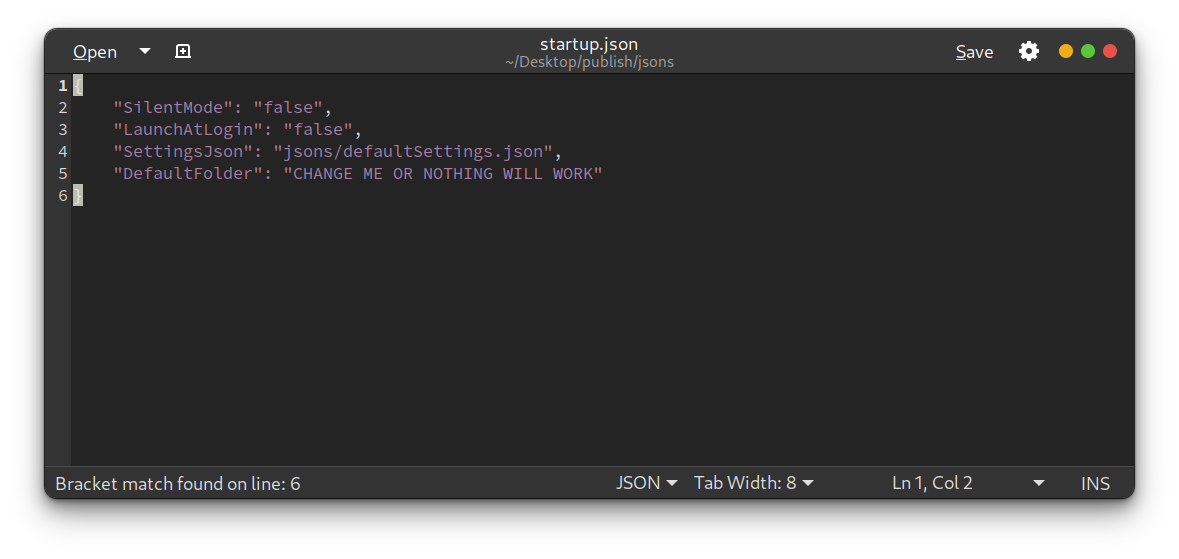
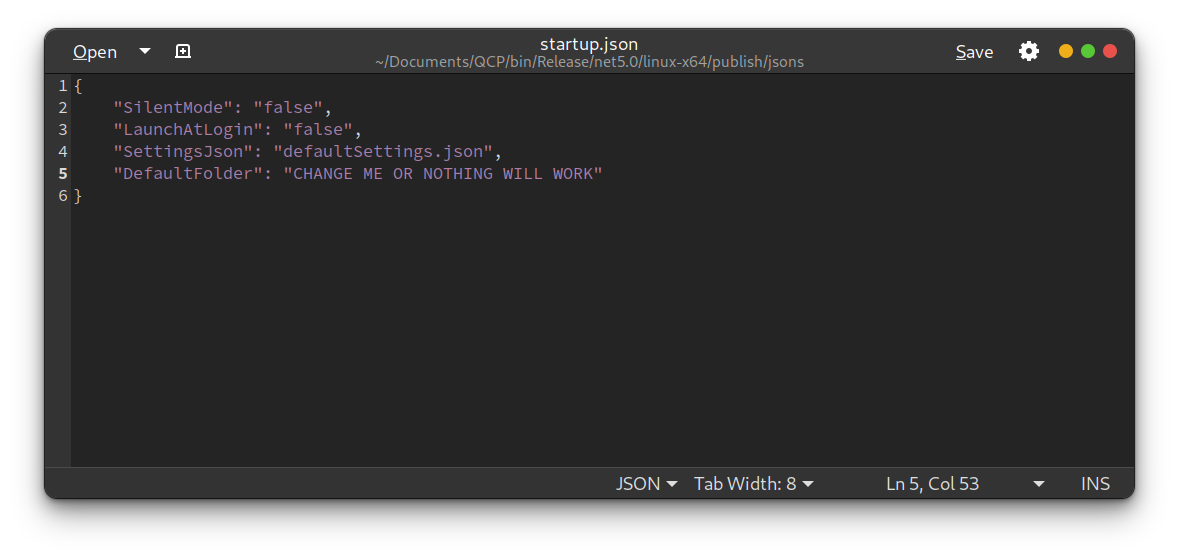
QCP can now run on any os with doubleclick

diff --git a/Startup.cs b/Startup.cs
@@ -16,7 +16,7 @@ namespace QCP
         // Sets a regkey to launch QCP at startup. Should only work on W10 for the time being (needs testing).
         public string LaunchAtLogin { get; set; }
 
-        // Settings json path read by the defaults, recomended for custom rules.
+        // Settings json file name read by the defaults, recomended for custom rules.
         public string SettingsJson { get; set; }
 
         // Default folder to be cleaned up. Also default parent folder for non custom filetype folders.
@@ -80,11 +80,11 @@ namespace QCP
         {
             if (usingDefaults == "y")
             {
-                return JsonSerializer.Deserialize<List<Correlation>>(File.ReadAllText(settings.SettingsJson));
+                return JsonSerializer.Deserialize<List<Correlation>>(File.ReadAllText(Path.Combine(AppDomain.CurrentDomain.BaseDirectory, "jsons", settings.SettingsJson)));
             }
             else
             {
-                return JsonSerializer.Deserialize<List<Correlation>>(File.ReadAllText("jsons/defaultSettings.json"));
+                return JsonSerializer.Deserialize<List<Correlation>>(File.ReadAllText(Path.Combine(AppDomain.CurrentDomain.BaseDirectory, "jsons", "defaultSettings.json")));
             }
         }
 
@@ -93,7 +93,7 @@ namespace QCP
         {
             if (usingDefaults == "y")
             {
-                return settings.DefaultFolder;
+                return Path.Combine(AppDomain.CurrentDomain.BaseDirectory, "jsons", settings.DefaultFolder);
             }
             else
             {

diff --git a/Readme.md b/Readme.md
@@ -50,7 +50,7 @@ Having to think what kind of file I have downloaded and then search for the corr
 
 2. Unzip the downloaded file in a place you will remember, especially if you are on OSX or any Linux distro.
 
-3. Run QCP! by double clicking it.
+3. Run QCP! by double clicking it. There are minor differences in running, detailed below.
 
 > Warning, if you have set nothing up and try to use defaults it will crash.
 
@@ -70,7 +70,10 @@ If you can't open it by double clicking, open a terminal, drag it in and press e
 
 Just double click it but...  
 ***Sigh***  
-On first launch (unless you re-download QCP or something), you'll have to tell gatekeeper to open the libraries anyway (3 times!).  
+On first launch (unless you re-download QCP or something), you'll have to tell gatekeeper to open the libraries from the Security and Privacy settings.
+
+[If you want to see how it looks like, here's a guide for an older version of QCP](https://youtu.be/HoT2q4YbEkY)
+
 Here are two solutions to the problem. Challenge yourself! Or wait. I may make a gui version one day. Maybe. Possibly. It's classified.
 
 [Apple's guide to run unverified apps](https://support.apple.com/guide/mac-help/open-a-mac-app-from-an-unidentified-developer-mh40616/mac)
@@ -83,8 +86,8 @@ Here are two solutions to the problem. Challenge yourself! Or wait. I may make a
 
   In the jsons folder inside the QCP folder there is a file called `startup.json`, open it with a text editor.
 
-  [alt text](/images/PublishFolder.png)
-  [alt text](/images/JsonsFolder.png)
+  ![Qcp folder](/images/PublishFolder.png "This is the QCP Folder")
+  ![Jsons folder](/images/JsonsFolder.png "This is the jsons folder")
 
   > Json files are a kind of text file, easy to read for you and the computer, nothing to be worried about!
 
@@ -92,15 +95,15 @@ Here are two solutions to the problem. Challenge yourself! Or wait. I may make a
 
 Well then, in the `"DefaultFolder"` field there should be some text, delete it and put the path of the folder you want to keep tidy.
 
-[alt text](/images/StartupJson.png)
+![Startup Json](/images/StartupJson.png)
 
 > Since I myself also had a little trouble with finding the path on OSX, you can copy the path from the Finder, just select the folder and then click on "copy xyz as Pathname" from the Finder's edit menu on the topbar. You can paste it later even in the terminal with cmd+V. You're welcome!
 
-[alt text](/images/QCP_OSX_Walkthrough.gif)
+![Easy guide](/images/QCP_OSX_Walkthrough.gif)
 
 - In the `startup.json` edit to `"true"` the silent and/or startup (only on W10 for the time being) fields.
 
-[alt text](/images/StartupJson.png)
+![Startup json](/images/StartupJson.png)
 
   **Done**!
 
@@ -119,7 +122,7 @@ Backup the default file, in case you break something.
 
 - The settings are divided in blocks which hold the information QCP needs to work, you can add or remove blocks as you please, just stick to the syntax.
 
-[alt text](images/SettingsJson.png)
+![alt text](images/SettingsJson.png)
 
 Blocks have the following fields:
 
@@ -132,9 +135,9 @@ If you want pdfs with pictures and not text documents, editing this file you can
 
  Now that you know how QCP behaves, customize it to taste then follow the lazy people guide so it can run smoothly even for you.
 
- Don't forget to put the customized (if you haven't simply modified the `defaultSettings.json` file) settings file path inside the `startup.json` one!
+ Don't forget to put the customized (if you haven't simply modified the `defaultSettings.json` file) settings file name inside the `startup.json` one otherwise you won't have your custom settings!
 
-[alt text](/images/StartupJson.png)
+![alt text](/images/StartupJson.png)
 
 ## How to install
 
